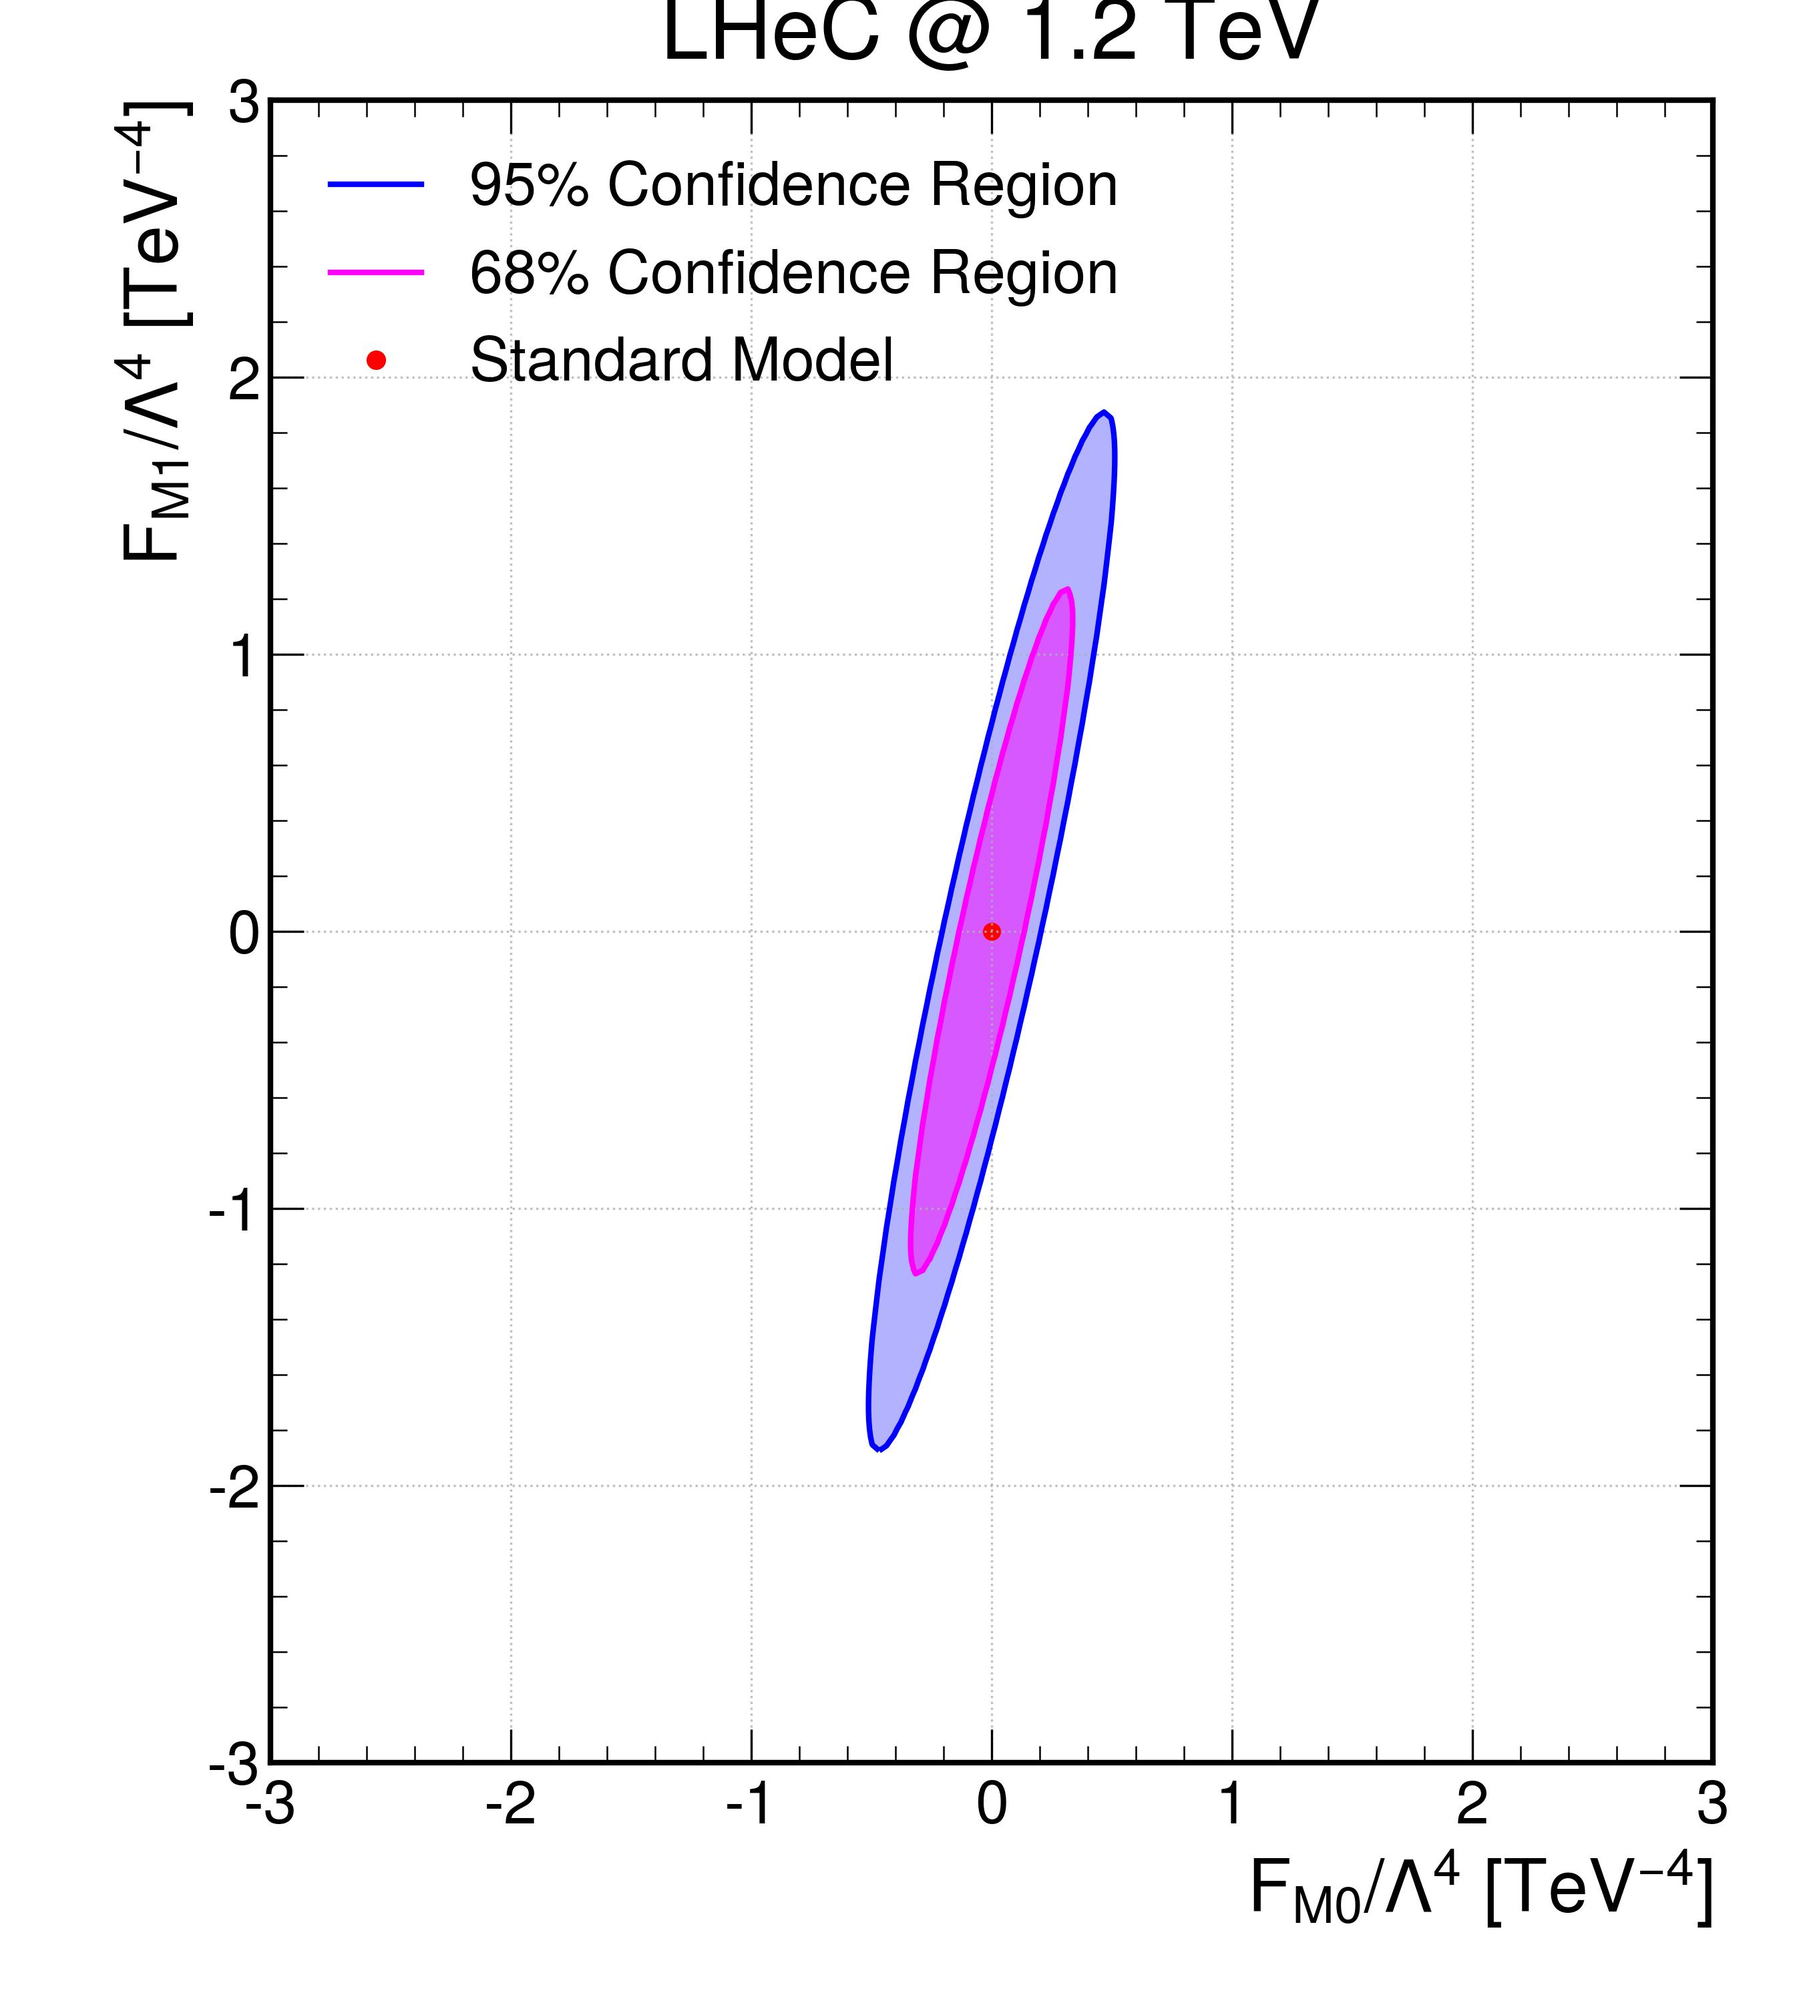
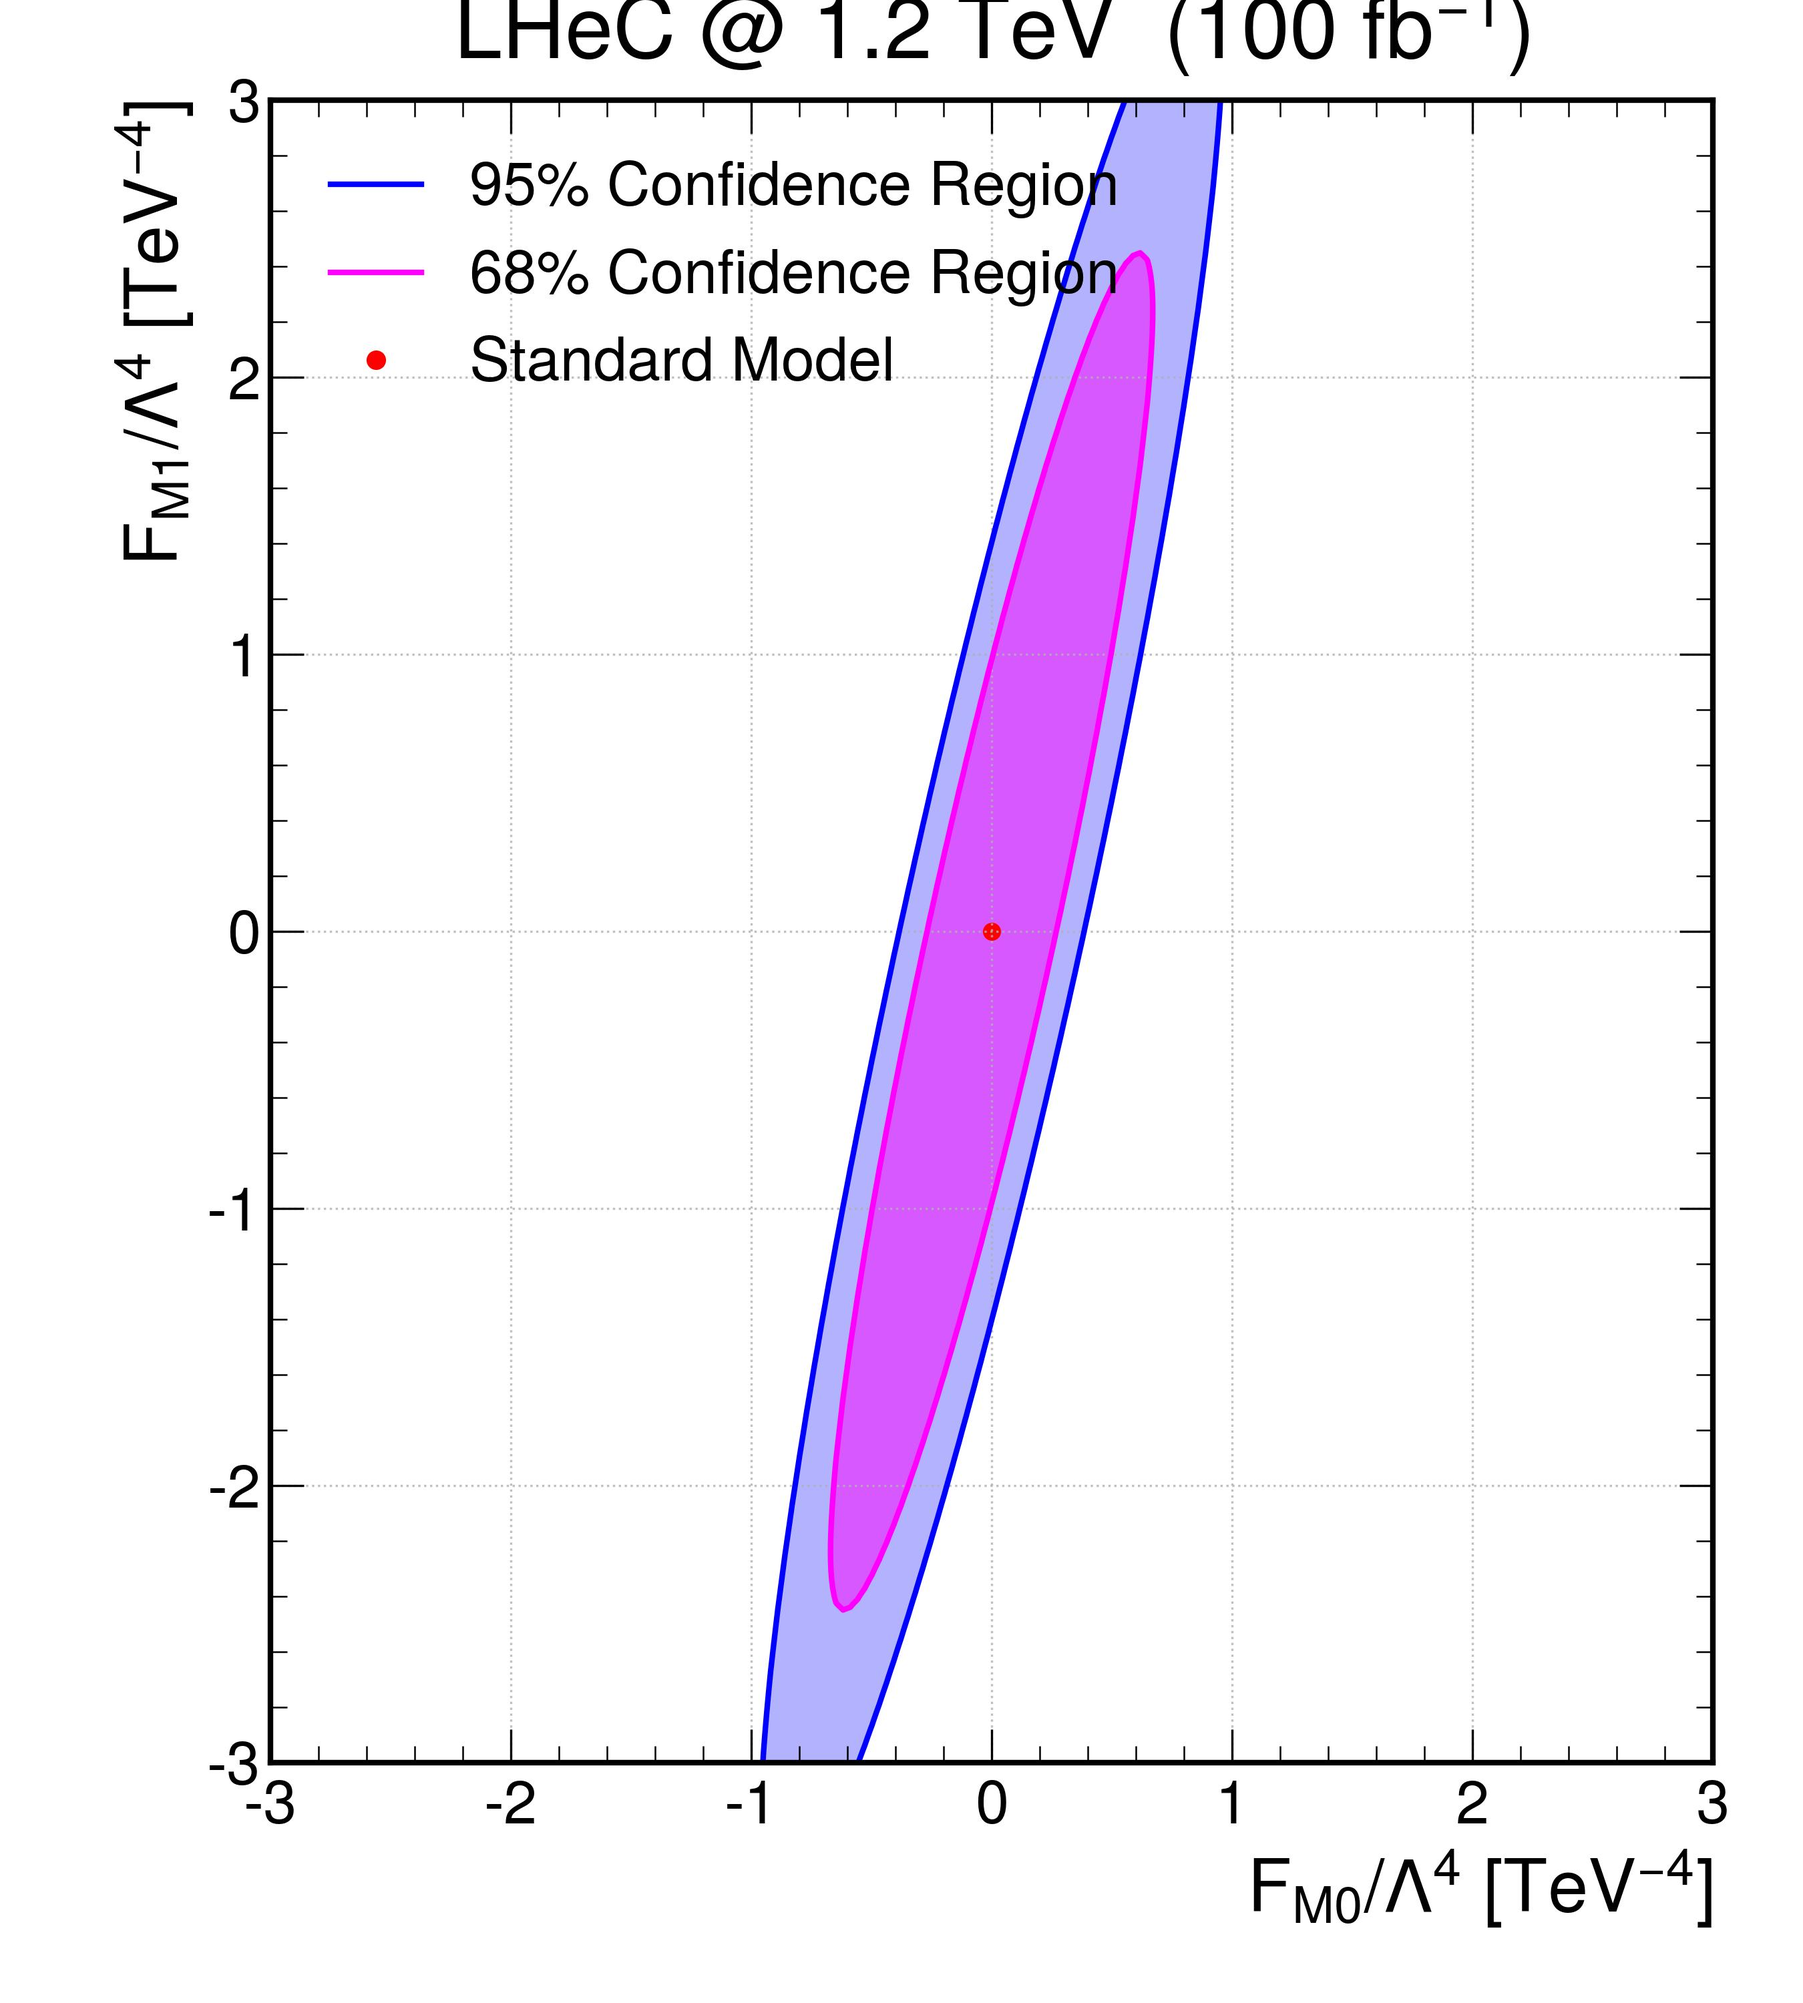
updates
updates

Changed region(s): [[0.2489, 0.0, 0.8089, 0.899], [0.84, 0.0, 0.8711, 0.031]]

diff --git a/Exclusion_Limit/2D_Exclusion_Contour/68_95_CL_Exclusion_Contour_aC_a0.py b/Exclusion_Limit/2D_Exclusion_Contour/68_95_CL_Exclusion_Contour_aC_a0.py
@@ -43,7 +43,7 @@ sigma_SM = sigma_vals_table[0]
 eff_background = efficiencies_table[0]  # Background efficiency
 
 # Compute expected background events
-luminosity = 0.1  # pb^-1
+luminosity = 1  # pb^-1
 N_bkg = sigma_SM * luminosity * eff_background
 
 # Compute uncertainties
@@ -72,6 +72,10 @@ c0 = 2.001086     # Coefficient for FM0^2
 c1 = 0.150223     # Coefficient for FM1^2
 c01 = -1.004603   # Mixed interference term
 
+# Constants for transformation
+g = 0.628  # Weak coupling constant (example value)
+v = 246  # Higgs vacuum expectation value in GeV
+
 # Define the quadratic function for the exclusion limit
 def exclusion_contour(FM0, FM1, sigma_limit):
     return c0 * FM0**2 + c1 * FM1**2 + c01 * FM0 * FM1 - (sigma_limit - sigma_SM)
@@ -85,28 +89,39 @@ FM0_grid, FM1_grid = np.meshgrid(FM0_vals, FM1_vals)
 sigma_values_95 = exclusion_contour(FM0_grid, FM1_grid, sigma_limit_95)
 sigma_values_68 = exclusion_contour(FM0_grid, FM1_grid, sigma_limit_68)
 
+# Define the energy scale of new physics (TeV)
+Lambda = 1  # Ensure this value is correctly defined in your analysis
+
+# Convert FM0 and FM1 to a_0^W and a_C^W using given relations
+# Take care of 10^{-8} scaling from the data file
+scale_factor = 1e-8  # Apply the correct scaling
+
+a0W_grid = FM0_grid * scale_factor * (Lambda**2 * g**2 * v**2)
+aCW_grid = -FM1_grid * scale_factor * (Lambda**2 * g**2 * v**2)
+
+
 # ===============================
 #   Plot the 68% & 95% CL Contours
 # ===============================
 
-plt.figure(figsize=(9, 10))
+plt.figure(figsize=(11, 11))
 plt.subplots_adjust(left=0.15, right=0.95, bottom=0.12, top=0.95)
 
 # 95% CL Contour (Outer)
-contour_95 = plt.contour(FM0_grid, FM1_grid, sigma_values_95, levels=[0], colors='blue', linewidths=2)
-plt.contourf(FM0_grid, FM1_grid, sigma_values_95, levels=[-5, 0], colors=['blue'], alpha=0.3)
+contour_95 = plt.contour(a0W_grid, aCW_grid, sigma_values_95, levels=[0], colors='blue', linewidths=2)
+plt.contourf(a0W_grid, aCW_grid, sigma_values_95, levels=[-5, 0], colors=['blue'], alpha=0.3)
 
 # 68% CL Contour (Inner)
-contour_68 = plt.contour(FM0_grid, FM1_grid, sigma_values_68, levels=[0], colors='magenta', linewidths=2)
-plt.contourf(FM0_grid, FM1_grid, sigma_values_68, levels=[-5, 0], colors=['magenta'], alpha=0.5)
+contour_68 = plt.contour(a0W_grid, aCW_grid, sigma_values_68, levels=[0], colors='magenta', linewidths=2)
+plt.contourf(a0W_grid, aCW_grid, sigma_values_68, levels=[-5, 0], colors=['magenta'], alpha=0.5)
 
 # Mark the Standard Model point at (0,0)
 plt.scatter(0, 0, color='red', s=30, label="Standard Model")
 
 # Labels and Title
-plt.xlabel(r"$F_{M0}/\Lambda^4$ [TeV$^{-4}$]")
-plt.ylabel(r"$F_{M1}/\Lambda^4$ [TeV$^{-4}$]")
-plt.title(r"LHeC @ 1.2 TeV  (100 fb$^{-1}$)", pad=15)  # Adjusted title position
+plt.xlabel(r"$a_0^W/\Lambda^2$ [GeV$^{-2}$]")
+plt.ylabel(r"$a_C^W/\Lambda^2$ [GeV$^{-2}$]")
+plt.title(r"LHeC @ 1.2 TeV", pad=15)  # Adjusted title position     (100 fb$^{-1}$)
 
 # Add legend using proper formatting
 legend_elements = [
@@ -120,5 +135,5 @@ plt.legend(handles=legend_elements, loc="upper left", frameon=False, edgecolor='
 plt.grid()
 
 # Save and show the plot
-plt.savefig("68_95CL_Exclusion_Contour.jpg", dpi=300)
+plt.savefig("a0W_aCW_Exclusion_Contour.jpg", dpi=300)
 plt.show()
